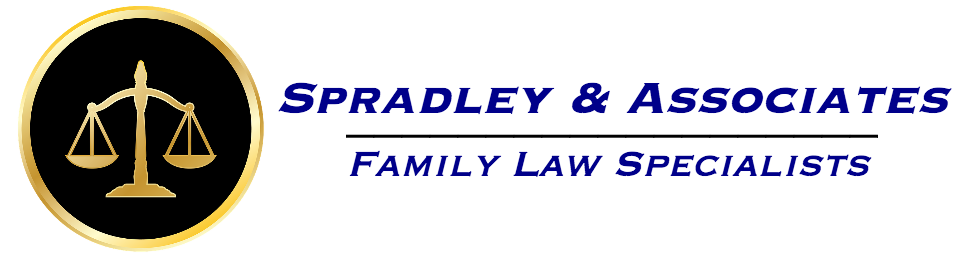
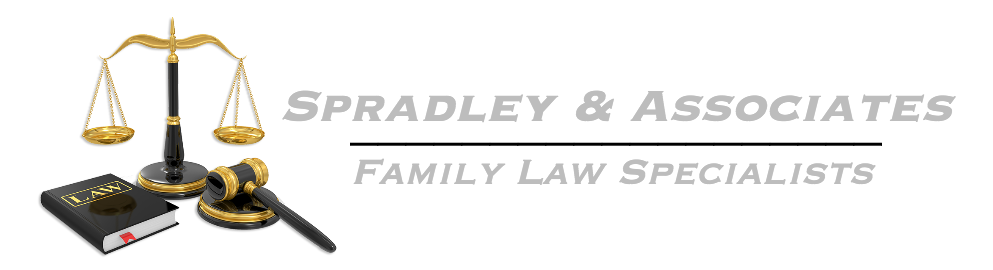
push

Changed region(s): [[0.0, 0.0, 0.9806, 0.9771], [0.3371, 0.5802, 0.8887, 0.7023], [0.3371, 0.4885, 0.8887, 0.5496]]

diff --git a/public/index.html b/public/index.html
@@ -85,7 +85,7 @@
 							<div class="col-lg-5 col-sm-2">
 								<!-- header-top-first start -->
 								<!-- ================ -->
-								<center><img src="images/sojsoj3.png" width="300px"></center>
+								<center><img src="images/soj1.png" width="300px"></center>
 								<!-- header-top-first end -->
 							</div>
 							<div class="col-xs-10 col-sm-7">
@@ -249,7 +249,7 @@
 									data-y="60"
 									data-speed="500"
 									data-start="1000"
-									data-easing="easeOutQuad"><img src="images/sojsoj1.png" width="350px"> 
+									data-easing="easeOutQuad"><img src="images/soj22.png" width="350px"> 
 								</div>	
 
 								<!-- LAYER NR. 2 -->
@@ -320,7 +320,7 @@
 							</div>
 						</div>
 						<div class="col-md-6 col-md-pull-6">
-							<img src="images/sojsoj3.png" width="400px">
+							<img src="images/soj1.png" width="400px">
 							<h3 class="title">We are your <span class="text-rotator" data-rotator-animation-effect="fadeIn">Family, Divorce, Alimony, Paternity, Adoption, Visitation, Custody,  Business Formation, Business Agreements, Document Reviews, Employment & Labor</span> Law Attorney</h3>
 							<p>At Spradley & Associates, we understand that your family crisis is different simply because it’s yours. That’s why we try to be a different kind of law firm. We speak candidly, laying everything on the line. You tell us the outcome you want, and we will give you an honest assessment of your case and tell you what it will take to get favorable results. While we cannot guarantee specific results, we do promise that we will not take the path of least resistance simply because it is just “the way these things are always done.” We practice family law according to what must be done at this particular time given your unique circumstances. When you retain our legal team at Spradley & Associates, you get:</p>
 							<ul><li>Energy and conviction in pursuit of real solutions</li><li>Responsive, focused legal services</li><li>Reasonable rates without expensive add-ons</li></ul>
@@ -578,14 +578,14 @@ The divorce attorneys at Spradley & Associates have the legal experience, courtr
 							<div class="col-md-8 col-md-offset-2">
 								<div class="testimonial text-center">
 									
-									<h3>Trusted Advisor and Knowledgeable!</h3>
+									<h3>Excellent would recommend to anybody looking for Outstanding service.</h3>
 									<div class="separator"></div>
 									<div class="testimonial-body">
 										<blockquote>
-											<p>"I am happy with the results that your office has gotten for me, you faced a lot of trying moments during this case, yet you kept the belief that what is right shall prevail."</p>
+											<p>"Ms. Spradley is dedicated, driven, and goal oriented. She was passionate about my case and the amount of work she put it was inspiring. I was terrified at first but Ms. Spradley put my mind at ease. I wouldn't chose another attorney ever."</p>
 										</blockquote>
-										<div class="testimonial-info-1">- Mike</div>
-										<div class="testimonial-info-2">May 7, 2016</div>
+										<div class="testimonial-info-1">- David</div>
+										<div class="testimonial-info-2">February 23, 2017</div>
 									</div>
 								</div>
 							</div>
@@ -598,14 +598,34 @@ The divorce attorneys at Spradley & Associates have the legal experience, courtr
 									
 										
 									
-									<h3>The Only Attorney I Will Work With In The Future!</h3>
+									<h3>Good Job</h3>
 									<div class="separator"></div>
 									<div class="testimonial-body">
 										<blockquote>
-											<p>"After 5 years of trying to negotiate custody for my son through other law firms, and having to settle for minimal visitation rights, I now have 50/50 custody for my son, thanks to Sabrina who was able to help me!!! I am highly satisfied with their services, I would recommend Spradley & Associates to anyone in my former situation. Thank you!!!!"</p>
+											<p>"Sabrina is really nice and is working with me on getting my daughter back. She filed all the paperwork and is being patient while waiting for my stubborn ex to give us her attorneys name as well as respond to being served so we can set a court date."</p>
 										</blockquote>
-										<div class="testimonial-info-1">- Ferris</div>
-										<div class="testimonial-info-2">April 9, 2016</div>
+										<div class="testimonial-info-1">- Sean</div>
+										<div class="testimonial-info-2">February 20, 2017</div>
+									</div>
+								</div>
+							</div>
+						</div>
+					</div>
+					<div class="container">
+						<div class="row">
+							<div class="col-md-8 col-md-offset-2">
+								<div class="testimonial text-center">
+									
+										
+									
+									<h3>Divorce</h3>
+									<div class="separator"></div>
+									<div class="testimonial-body">
+										<blockquote>
+											<p>"Sabrina was very specific, she was clear of every step, explained everything very well. she has my back every step of the way. She took her time and made extra time for the case. you can tell that she is very proffesional and very kind! i completely gave my trust to her and she showed me that she loves her job and will help anybody!"</p>
+										</blockquote>
+										<div class="testimonial-info-1">- Ana Matos</div>
+										<div class="testimonial-info-2">February 12, 2017</div>
 									</div>
 								</div>
 							</div>

diff --git a/public/sabrina-spradley.html b/public/sabrina-spradley.html
@@ -571,14 +571,14 @@ The divorce attorneys at Spradley & Associates have the legal experience, courtr
 							<div class="col-md-8 col-md-offset-2">
 								<div class="testimonial text-center">
 									
-									<h3>Trusted Advisor and Knowledgeable!</h3>
+									<h3>Excellent would recommend to anybody looking for Outstanding service.</h3>
 									<div class="separator"></div>
 									<div class="testimonial-body">
 										<blockquote>
-											<p>"I am happy with the results that your office has gotten for me, you faced a lot of trying moments during this case, yet you kept the belief that what is right shall prevail."</p>
+											<p>"Ms. Spradley is dedicated, driven, and goal oriented. She was passionate about my case and the amount of work she put it was inspiring. I was terrified at first but Ms. Spradley put my mind at ease. I wouldn't chose another attorney ever."</p>
 										</blockquote>
-										<div class="testimonial-info-1">- Mike</div>
-										<div class="testimonial-info-2">May 7, 2016</div>
+										<div class="testimonial-info-1">- David</div>
+										<div class="testimonial-info-2">February 23, 2017</div>
 									</div>
 								</div>
 							</div>
@@ -591,19 +591,40 @@ The divorce attorneys at Spradley & Associates have the legal experience, courtr
 									
 										
 									
-									<h3>The Only Attorney I Will Work With In The Future!</h3>
+									<h3>Good Job</h3>
 									<div class="separator"></div>
 									<div class="testimonial-body">
 										<blockquote>
-											<p>"After 5 years of trying to negotiate custody for my son through other law firms, and having to settle for minimal visitation rights, I now have 50/50 custody for my son, thanks to Sabrina who was able to help me!!! I am highly satisfied with their services, I would recommend Spradley & Associates to anyone in my former situation. Thank you!!!!"</p>
+											<p>"Sabrina is really nice and is working with me on getting my daughter back. She filed all the paperwork and is being patient while waiting for my stubborn ex to give us her attorneys name as well as respond to being served so we can set a court date."</p>
 										</blockquote>
-										<div class="testimonial-info-1">- Ferris</div>
-										<div class="testimonial-info-2">April 9, 2016</div>
+										<div class="testimonial-info-1">- Sean</div>
+										<div class="testimonial-info-2">February 20, 2017</div>
 									</div>
 								</div>
 							</div>
 						</div>
 					</div>
+					<div class="container">
+						<div class="row">
+							<div class="col-md-8 col-md-offset-2">
+								<div class="testimonial text-center">
+									
+										
+									
+									<h3>Divorce</h3>
+									<div class="separator"></div>
+									<div class="testimonial-body">
+										<blockquote>
+											<p>"Sabrina was very specific, she was clear of every step, explained everything very well. she has my back every step of the way. She took her time and made extra time for the case. you can tell that she is very proffesional and very kind! i completely gave my trust to her and she showed me that she loves her job and will help anybody!"</p>
+										</blockquote>
+										<div class="testimonial-info-1">- Ana Matos</div>
+										<div class="testimonial-info-2">February 12, 2017</div>
+									</div>
+								</div>
+							</div>
+						</div>
+					</div>
+					
 					
 					
 				</div>
